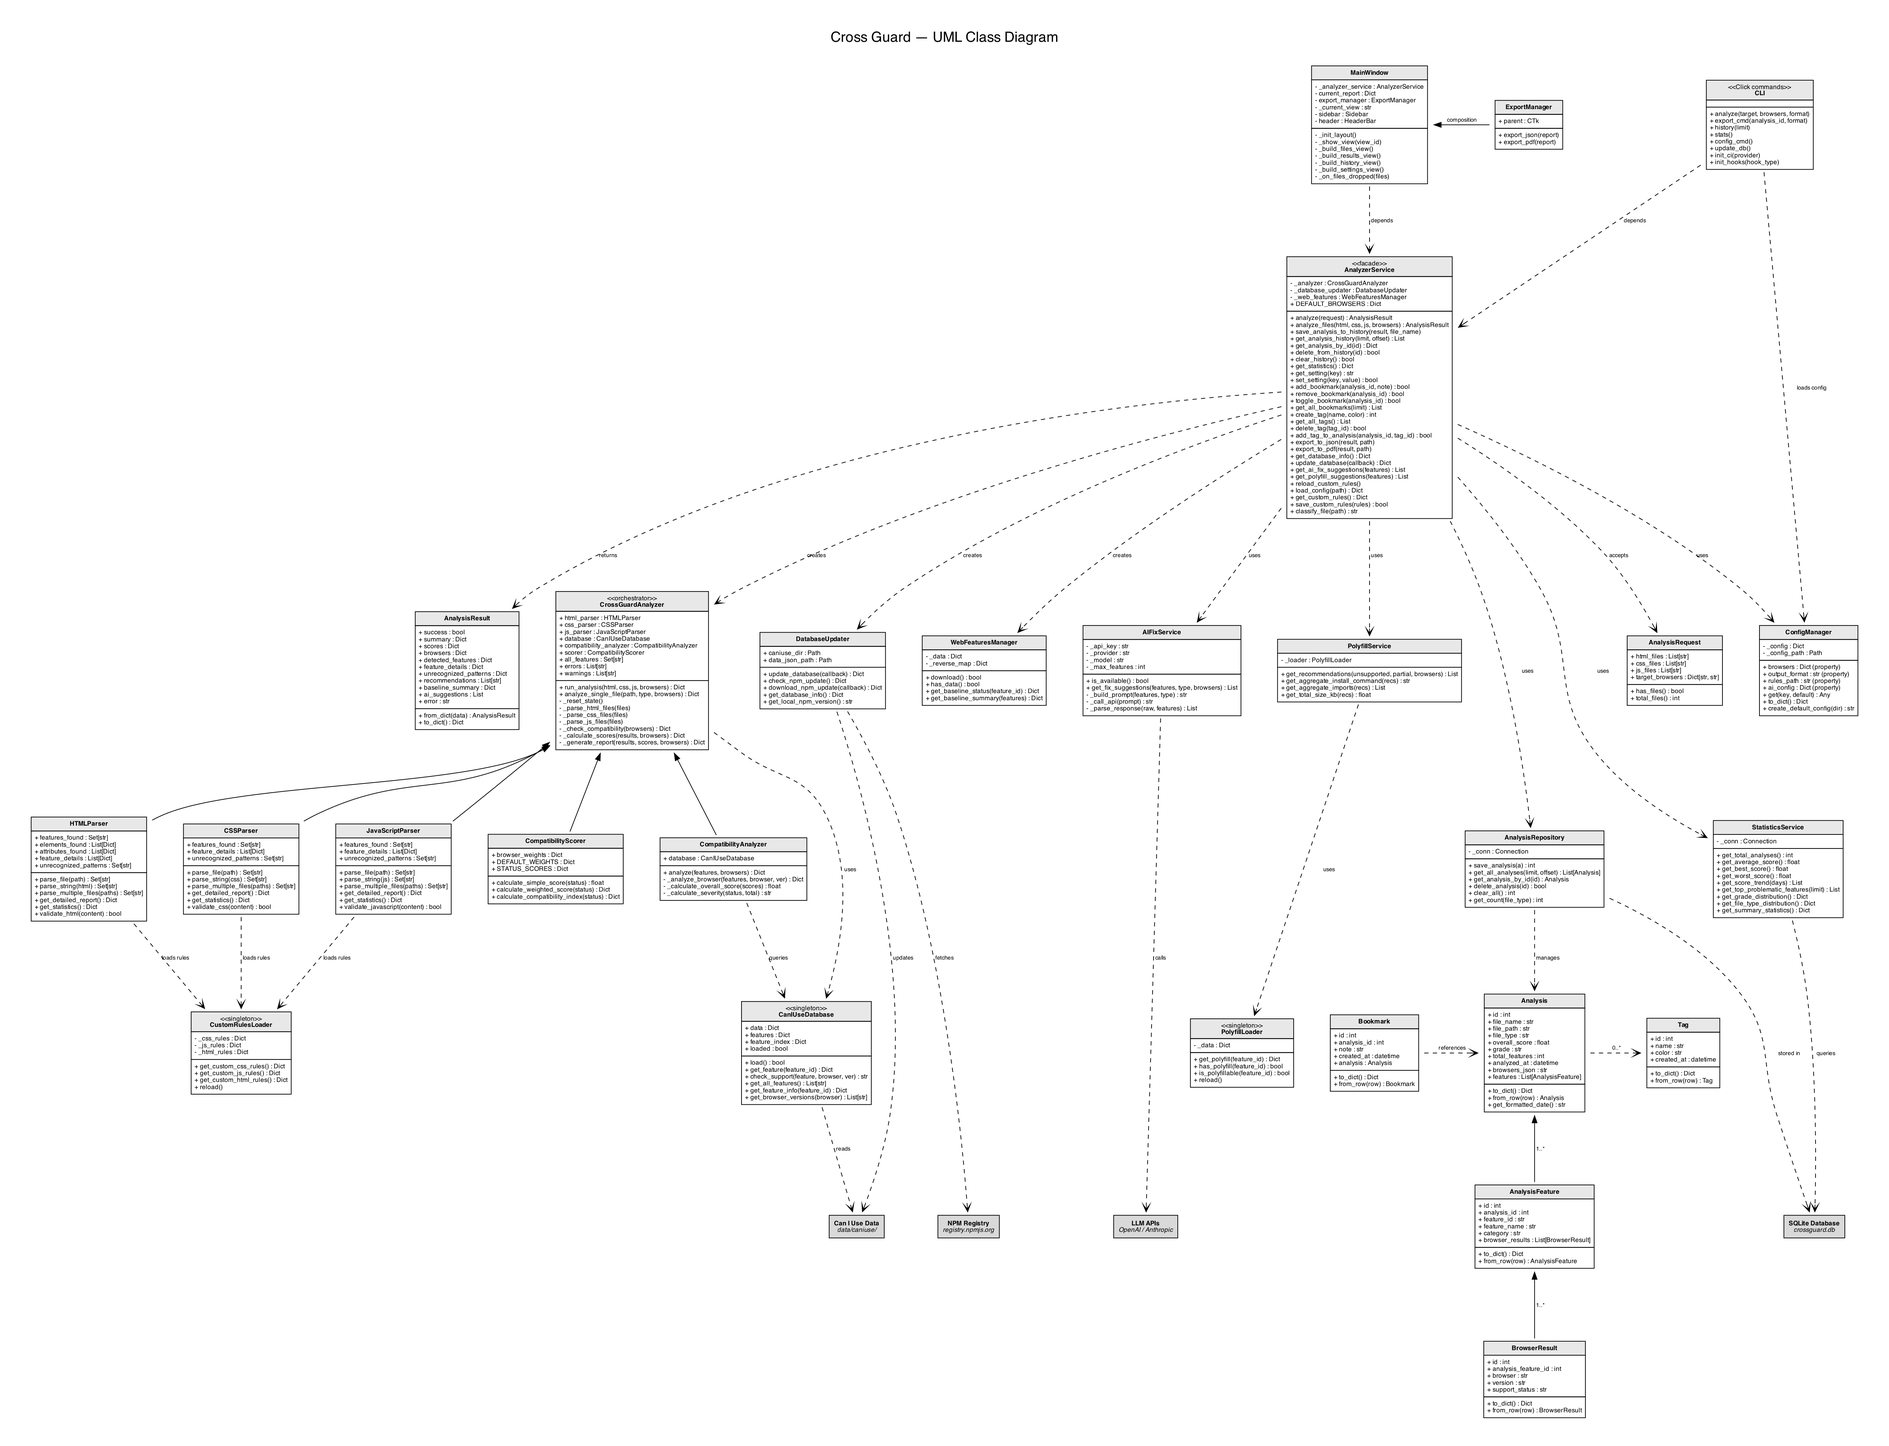
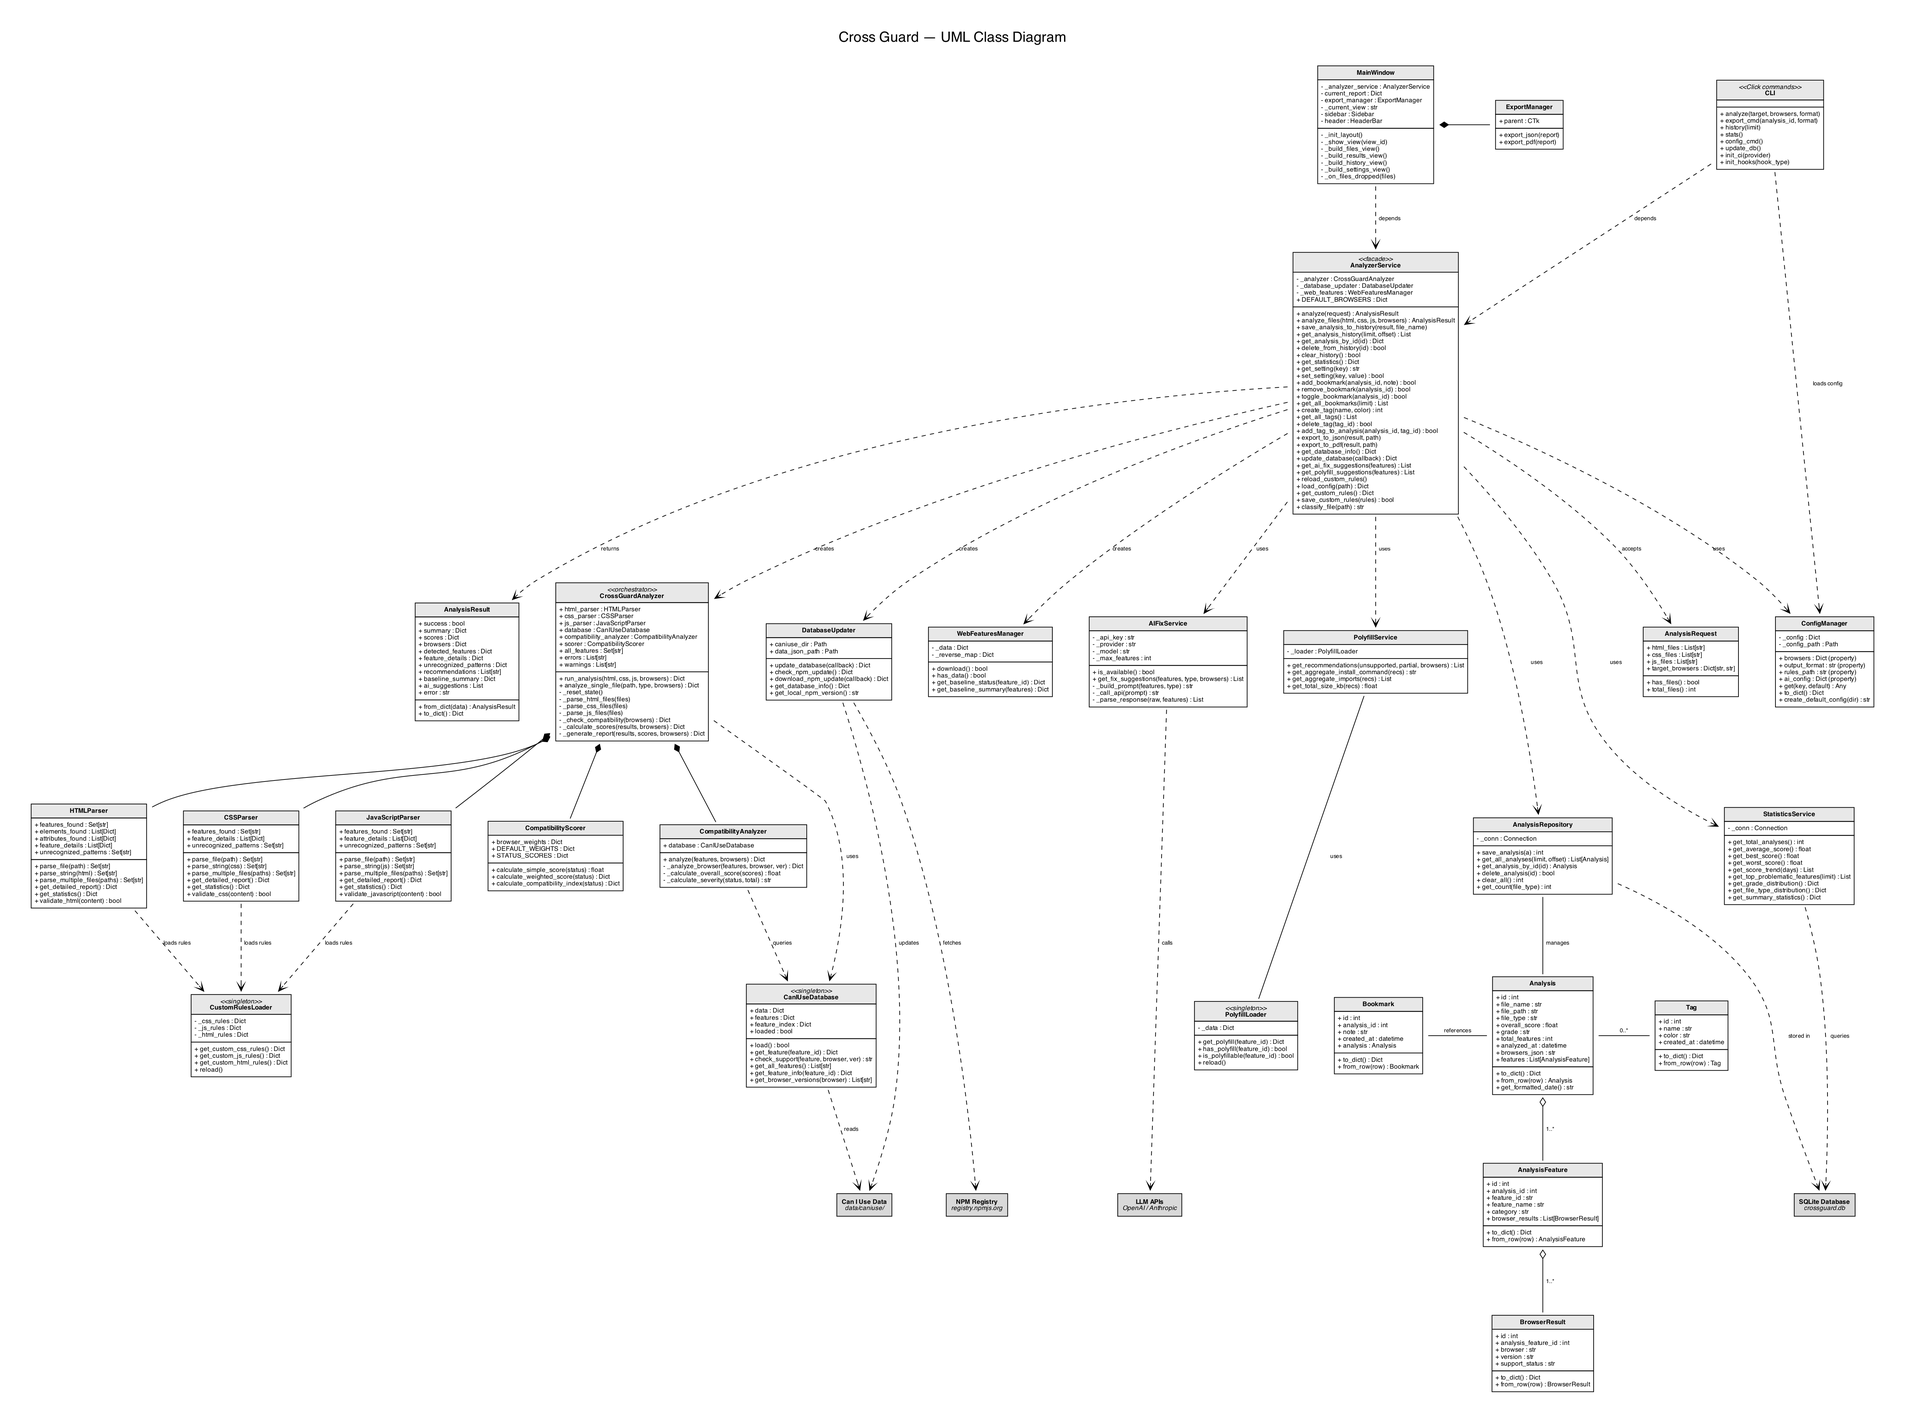
UML diagram properly made

diff --git a/docs/generate_uml.py b/docs/generate_uml.py
@@ -1,13 +1,21 @@
-"""Generate the Cross Guard UML class diagram as a PNG image."""
+"""Generate the Cross Guard UML class diagram as a PNG image.
+
+Arrow conventions (UML standard):
+  - Association:  solid line, no arrowhead          (knows about)
+  - Dependency:   dashed line, open arrow  --->     (uses temporarily)
+  - Composition:  solid line, filled diamond ◆──    (owns, dies together)
+  - Aggregation:  solid line, hollow diamond ◇──    (contains, can exist alone)
+  - Inheritance:  solid line, hollow triangle ──▷   (is a)
+"""
 
 import graphviz
 
 
 def class_box(name, attrs=None, methods=None, stereotype=None):
-    """UML 3-compartment box."""
+    """UML 3-compartment class box."""
     header = f"<b>{name}</b>"
     if stereotype:
-        header = f"&lt;&lt;{stereotype}&gt;&gt;<br/><b>{name}</b>"
+        header = f"<i>&lt;&lt;{stereotype}&gt;&gt;</i><br/><b>{name}</b>"
 
     label = '<<table border="0" cellborder="1" cellspacing="0" cellpadding="4">'
     label += f'<tr><td bgcolor="#e8e8e8" align="center">{header}</td></tr>'
@@ -27,11 +35,32 @@ def class_box(name, attrs=None, methods=None, stereotype=None):
 
 
 def ext_box(name, subtitle=None):
-    """External system box."""
+    """External system box (shaded, no compartments)."""
     text = f"<b>{name}</b>"
     if subtitle:
         text += f"<br/><i>{subtitle}</i>"
-    return f'<<table border="0" cellborder="1" cellspacing="0" cellpadding="6" bgcolor="#d9d9d9"><tr><td align="center">{text}</td></tr></table>>'
+    return (f'<<table border="0" cellborder="1" cellspacing="0" cellpadding="6" '
+            f'bgcolor="#d9d9d9"><tr><td align="center">{text}</td></tr></table>>')
+
+
+# ── Relationship helpers (UML-correct arrows) ──────
+
+def dependency(g, src, dst, label=''):
+    """Dashed arrow with open head: src - - -> dst  (uses/depends temporarily)."""
+    g.edge(src, dst, style='dashed', arrowhead='open', label=f'  {label}  ' if label else '')
+
+def composition(g, whole, part):
+    """Solid line, filled diamond on WHOLE side: whole ◆── part."""
+    g.edge(whole, part, arrowhead='none', arrowtail='diamond', dir='both')
+
+def aggregation(g, whole, part, label=''):
+    """Solid line, hollow diamond on WHOLE side: whole ◇── part."""
+    g.edge(whole, part, arrowhead='none', arrowtail='odiamond', dir='both',
+           label=f'  {label}  ' if label else '')
+
+def association(g, src, dst, label=''):
+    """Solid line, no arrowheads (bidirectional awareness)."""
+    g.edge(src, dst, arrowhead='none', label=f'  {label}  ' if label else '')
 
 
 def build():
@@ -43,7 +72,7 @@ def build():
             'rankdir': 'TB',
             'splines': 'true',
             'nodesep': '0.5',
-            'ranksep': '1.2',
+            'ranksep': '1.1',
             'fontname': 'Helvetica',
             'label': 'Cross Guard — UML Class Diagram\n\n',
             'labelloc': 't',
@@ -55,7 +84,11 @@ def build():
         edge_attr={'fontname': 'Helvetica', 'fontsize': '8'},
     )
 
-    # ── Layer 1: Frontends ──────────────────────────────
+    # ═══════════════════════════════════════════════════════
+    #  CLASS DEFINITIONS (26 classes + 4 external systems)
+    # ═══════════════════════════════════════════════════════
+
+    # ── Frontends ───────────────────────────────────────
 
     g.node('MainWindow', class_box('MainWindow',
         ['- _analyzer_service : AnalyzerService',
@@ -89,7 +122,7 @@ def build():
          '+ init_hooks(hook_type)'],
         stereotype='Click commands'))
 
-    # ── Layer 2: Data Contracts ─────────────────────────
+    # ── Data Contracts ──────────────────────────────────
 
     g.node('AnalysisRequest', class_box('AnalysisRequest',
         ['+ html_files : List[str]',
@@ -114,7 +147,7 @@ def build():
         ['+ from_dict(data) : AnalysisResult',
          '+ to_dict() : Dict']))
 
-    # ── Layer 2: Facade ─────────────────────────────────
+    # ── Facade ──────────────────────────────────────────
 
     g.node('AnalyzerService', class_box('AnalyzerService',
         ['- _analyzer : CrossGuardAnalyzer',
@@ -152,7 +185,7 @@ def build():
          '+ classify_file(path) : str'],
         stereotype='facade'))
 
-    # ── Layer 3: Orchestrator ───────────────────────────
+    # ── Orchestrator ────────────────────────────────────
 
     g.node('CrossGuardAnalyzer', class_box('CrossGuardAnalyzer',
         ['+ html_parser : HTMLParser',
@@ -175,7 +208,7 @@ def build():
          '- _generate_report(results, scores, browsers) : Dict'],
         stereotype='orchestrator'))
 
-    # ── Layer 3 side: Services ──────────────────────────
+    # ── Services ────────────────────────────────────────
 
     g.node('DatabaseUpdater', class_box('DatabaseUpdater',
         ['+ caniuse_dir : Path',
@@ -231,7 +264,7 @@ def build():
          '+ reload()'],
         stereotype='singleton'))
 
-    # ── Layer 4: Parsers ────────────────────────────────
+    # ── Parsers ─────────────────────────────────────────
 
     g.node('HTMLParser', class_box('HTMLParser',
         ['+ features_found : Set[str]',
@@ -278,7 +311,7 @@ def build():
          '+ reload()'],
         stereotype='singleton'))
 
-    # ── Layer 4: Compatibility Engine ───────────────────
+    # ── Compatibility Engine ────────────────────────────
 
     g.node('CompatibilityAnalyzer', class_box('CompatibilityAnalyzer',
         ['+ database : CanIUseDatabase'],
@@ -308,7 +341,7 @@ def build():
          '+ get_browser_versions(browser) : List[str]'],
         stereotype='singleton'))
 
-    # ── Layer 5: Database layer ─────────────────────────
+    # ── Database Layer ──────────────────────────────────
 
     g.node('AnalysisRepository', class_box('AnalysisRepository',
         ['- _conn : Connection'],
@@ -331,58 +364,38 @@ def build():
          '+ get_file_type_distribution() : Dict',
          '+ get_summary_statistics() : Dict']))
 
+    # ── Data Models ─────────────────────────────────────
+
     g.node('Analysis', class_box('Analysis',
-        ['+ id : int',
-         '+ file_name : str',
-         '+ file_path : str',
-         '+ file_type : str',
-         '+ overall_score : float',
-         '+ grade : str',
-         '+ total_features : int',
-         '+ analyzed_at : datetime',
-         '+ browsers_json : str',
-         '+ features : List[AnalysisFeature]'],
-        ['+ to_dict() : Dict',
-         '+ from_row(row) : Analysis',
+        ['+ id : int', '+ file_name : str', '+ file_path : str',
+         '+ file_type : str', '+ overall_score : float', '+ grade : str',
+         '+ total_features : int', '+ analyzed_at : datetime',
+         '+ browsers_json : str', '+ features : List[AnalysisFeature]'],
+        ['+ to_dict() : Dict', '+ from_row(row) : Analysis',
          '+ get_formatted_date() : str']))
 
     g.node('AnalysisFeature', class_box('AnalysisFeature',
-        ['+ id : int',
-         '+ analysis_id : int',
-         '+ feature_id : str',
-         '+ feature_name : str',
-         '+ category : str',
+        ['+ id : int', '+ analysis_id : int', '+ feature_id : str',
+         '+ feature_name : str', '+ category : str',
          '+ browser_results : List[BrowserResult]'],
-        ['+ to_dict() : Dict',
-         '+ from_row(row) : AnalysisFeature']))
+        ['+ to_dict() : Dict', '+ from_row(row) : AnalysisFeature']))
 
     g.node('BrowserResult', class_box('BrowserResult',
-        ['+ id : int',
-         '+ analysis_feature_id : int',
-         '+ browser : str',
-         '+ version : str',
-         '+ support_status : str'],
-        ['+ to_dict() : Dict',
-         '+ from_row(row) : BrowserResult']))
+        ['+ id : int', '+ analysis_feature_id : int',
+         '+ browser : str', '+ version : str', '+ support_status : str'],
+        ['+ to_dict() : Dict', '+ from_row(row) : BrowserResult']))
 
     g.node('Bookmark', class_box('Bookmark',
-        ['+ id : int',
-         '+ analysis_id : int',
-         '+ note : str',
-         '+ created_at : datetime',
-         '+ analysis : Analysis'],
-        ['+ to_dict() : Dict',
-         '+ from_row(row) : Bookmark']))
+        ['+ id : int', '+ analysis_id : int', '+ note : str',
+         '+ created_at : datetime', '+ analysis : Analysis'],
+        ['+ to_dict() : Dict', '+ from_row(row) : Bookmark']))
 
     g.node('Tag', class_box('Tag',
-        ['+ id : int',
-         '+ name : str',
-         '+ color : str',
+        ['+ id : int', '+ name : str', '+ color : str',
          '+ created_at : datetime'],
-        ['+ to_dict() : Dict',
-         '+ from_row(row) : Tag']))
+        ['+ to_dict() : Dict', '+ from_row(row) : Tag']))
 
-    # ── External systems ────────────────────────────────
+    # ── External Systems ────────────────────────────────
 
     g.node('SQLiteDB', ext_box('SQLite Database', 'crossguard.db'))
     g.node('CanIUseData', ext_box('Can I Use Data', 'data/caniuse/'))
@@ -390,68 +403,72 @@ def build():
     g.node('NPMRegistry', ext_box('NPM Registry', 'registry.npmjs.org'))
 
     # ═══════════════════════════════════════════════════════
-    #  EDGES
+    #  RELATIONSHIPS (UML-correct arrow types)
     # ═══════════════════════════════════════════════════════
 
+    # ── Composition: filled diamond ◆ (whole owns part) ──
+
+    composition(g, 'MainWindow', 'ExportManager')
+    composition(g, 'CrossGuardAnalyzer', 'HTMLParser')
+    composition(g, 'CrossGuardAnalyzer', 'CSSParser')
+    composition(g, 'CrossGuardAnalyzer', 'JSParser')
+    composition(g, 'CrossGuardAnalyzer', 'CompatibilityAnalyzer')
+    composition(g, 'CrossGuardAnalyzer', 'CompatibilityScorer')
+
+    # ── Aggregation: hollow diamond ◇ (contains, can exist alone) ──
+
+    aggregation(g, 'Analysis', 'AnalysisFeature', '1..*')
+    aggregation(g, 'AnalysisFeature', 'BrowserResult', '1..*')
+
+    # ── Dependency: dashed arrow ---> (uses/creates temporarily) ──
+
     # Frontends -> Facade
-    g.edge('MainWindow', 'ExportManager', arrowhead='diamond', dir='back', label=' composition')
-    g.edge('MainWindow', 'AnalyzerService', style='dashed', arrowhead='vee', label=' depends')
-    g.edge('CLI', 'AnalyzerService', style='dashed', arrowhead='vee', label=' depends')
-    g.edge('CLI', 'ConfigManager', style='dashed', arrowhead='vee', label=' loads config')
+    dependency(g, 'MainWindow', 'AnalyzerService', 'depends')
+    dependency(g, 'CLI', 'AnalyzerService', 'depends')
+    dependency(g, 'CLI', 'ConfigManager', 'loads config')
 
     # Facade -> Data contracts
-    g.edge('AnalyzerService', 'AnalysisRequest', style='dashed', arrowhead='vee', label=' accepts')
-    g.edge('AnalyzerService', 'AnalysisResult', style='dashed', arrowhead='vee', label=' returns')
+    dependency(g, 'AnalyzerService', 'AnalysisRequest', 'accepts')
+    dependency(g, 'AnalyzerService', 'AnalysisResult', 'returns')
 
-    # Facade -> Backend
-    g.edge('AnalyzerService', 'CrossGuardAnalyzer', style='dashed', arrowhead='vee', label=' creates')
-    g.edge('AnalyzerService', 'DatabaseUpdater', style='dashed', arrowhead='vee', label=' creates')
-    g.edge('AnalyzerService', 'WebFeaturesManager', style='dashed', arrowhead='vee', label=' creates')
-    g.edge('AnalyzerService', 'ConfigManager', style='dashed', arrowhead='vee', label=' uses')
-    g.edge('AnalyzerService', 'AnalysisRepository', style='dashed', arrowhead='vee', label=' uses')
-    g.edge('AnalyzerService', 'StatisticsService', style='dashed', arrowhead='vee', label=' uses')
-    g.edge('AnalyzerService', 'AIFixService', style='dashed', arrowhead='vee', label=' uses')
-    g.edge('AnalyzerService', 'PolyfillService', style='dashed', arrowhead='vee', label=' uses')
+    # Facade -> Backend (creates)
+    dependency(g, 'AnalyzerService', 'CrossGuardAnalyzer', 'creates')
+    dependency(g, 'AnalyzerService', 'DatabaseUpdater', 'creates')
+    dependency(g, 'AnalyzerService', 'WebFeaturesManager', 'creates')
 
-    # Orchestrator -> composed parts
-    g.edge('CrossGuardAnalyzer', 'HTMLParser', arrowhead='diamond', dir='back')
-    g.edge('CrossGuardAnalyzer', 'CSSParser', arrowhead='diamond', dir='back')
-    g.edge('CrossGuardAnalyzer', 'JSParser', arrowhead='diamond', dir='back')
-    g.edge('CrossGuardAnalyzer', 'CompatibilityAnalyzer', arrowhead='diamond', dir='back')
-    g.edge('CrossGuardAnalyzer', 'CompatibilityScorer', arrowhead='diamond', dir='back')
-    g.edge('CrossGuardAnalyzer', 'CanIUseDatabase', style='dashed', arrowhead='vee', label=' uses')
+    # Facade -> Backend (uses)
+    dependency(g, 'AnalyzerService', 'ConfigManager', 'uses')
+    dependency(g, 'AnalyzerService', 'AnalysisRepository', 'uses')
+    dependency(g, 'AnalyzerService', 'StatisticsService', 'uses')
+    dependency(g, 'AnalyzerService', 'AIFixService', 'uses')
+    dependency(g, 'AnalyzerService', 'PolyfillService', 'uses')
 
-    # Parsers -> CustomRulesLoader
-    g.edge('HTMLParser', 'CustomRulesLoader', style='dashed', arrowhead='vee', label=' loads rules')
-    g.edge('CSSParser', 'CustomRulesLoader', style='dashed', arrowhead='vee', label=' loads rules')
-    g.edge('JSParser', 'CustomRulesLoader', style='dashed', arrowhead='vee', label=' loads rules')
+    # Orchestrator -> dependencies
+    dependency(g, 'CrossGuardAnalyzer', 'CanIUseDatabase', 'uses')
+
+    # Parsers -> rules
+    dependency(g, 'HTMLParser', 'CustomRulesLoader', 'loads rules')
+    dependency(g, 'CSSParser', 'CustomRulesLoader', 'loads rules')
+    dependency(g, 'JSParser', 'CustomRulesLoader', 'loads rules')
 
     # Compatibility engine
-    g.edge('CompatibilityAnalyzer', 'CanIUseDatabase', style='dashed', arrowhead='vee', label=' queries')
-    g.edge('CanIUseDatabase', 'CanIUseData', style='dashed', arrowhead='vee', label=' reads')
+    dependency(g, 'CompatibilityAnalyzer', 'CanIUseDatabase', 'queries')
 
-    # DatabaseUpdater -> external
-    g.edge('DatabaseUpdater', 'CanIUseData', style='dashed', arrowhead='vee', label=' updates')
-    g.edge('DatabaseUpdater', 'NPMRegistry', style='dashed', arrowhead='vee', label=' fetches')
+    # ── Association: solid line (structural link) ──
 
-    # Database persistence
-    g.edge('AnalysisRepository', 'SQLiteDB', style='dashed', arrowhead='vee', label=' stored in')
-    g.edge('StatisticsService', 'SQLiteDB', style='dashed', arrowhead='vee', label=' queries')
-    g.edge('AnalysisRepository', 'Analysis', style='dashed', arrowhead='vee', label=' manages')
+    association(g, 'AnalysisRepository', 'Analysis', 'manages')
+    association(g, 'Bookmark', 'Analysis', 'references')
+    association(g, 'Analysis', 'Tag', '0..*')
+    association(g, 'PolyfillService', 'PolyfillLoader', 'uses')
 
-    # Data model chain (aggregation)
-    g.edge('Analysis', 'AnalysisFeature', arrowhead='odiamond', dir='back', label=' 1..*')
-    g.edge('AnalysisFeature', 'BrowserResult', arrowhead='odiamond', dir='back', label=' 1..*')
+    # ── Dependency to external systems ──
 
-    # Bookmark and Tag
-    g.edge('Bookmark', 'Analysis', style='dashed', arrowhead='vee', label=' references')
-    g.edge('Analysis', 'Tag', label=' 0..*', style='dashed', arrowhead='vee')
-
-    # Polyfill
-    g.edge('PolyfillService', 'PolyfillLoader', style='dashed', arrowhead='vee', label=' uses')
-
-    # AI -> external
-    g.edge('AIFixService', 'LLMAPIs', style='dashed', arrowhead='vee', label=' calls')
+    dependency(g, 'CanIUseDatabase', 'CanIUseData', 'reads')
+    dependency(g, 'DatabaseUpdater', 'CanIUseData', 'updates')
+    dependency(g, 'DatabaseUpdater', 'NPMRegistry', 'fetches')
+    dependency(g, 'AnalysisRepository', 'SQLiteDB', 'stored in')
+    dependency(g, 'StatisticsService', 'SQLiteDB', 'queries')
+    dependency(g, 'AIFixService', 'LLMAPIs', 'calls')
 
     # ═══════════════════════════════════════════════════════
     #  LAYOUT RANKS
